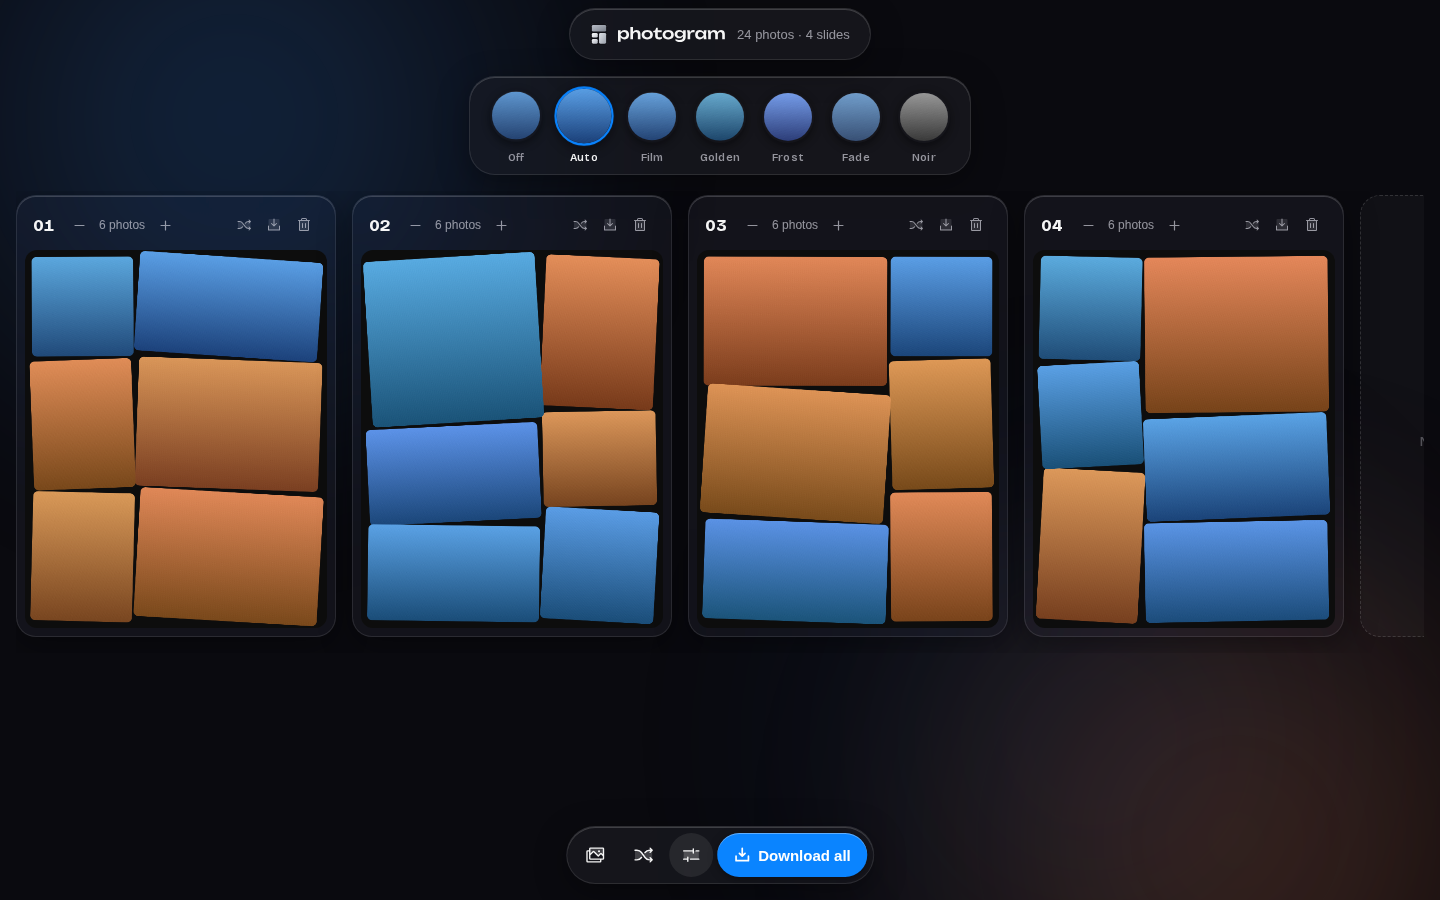
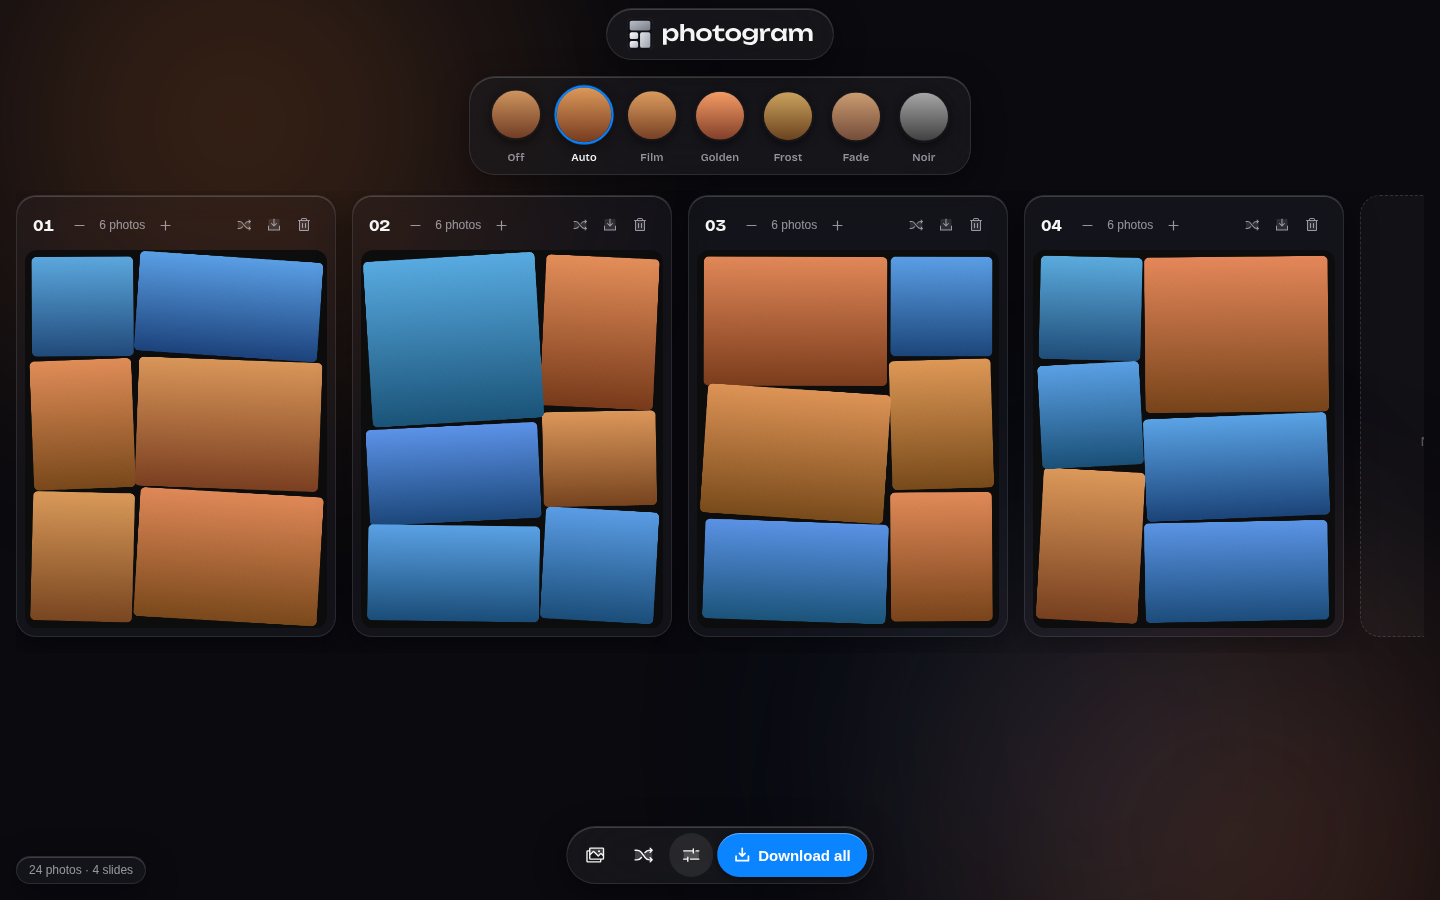
Bigger header brand; stats tally moves to a corner chip
The topbar is now just the enlarged logo mark and wordmark. The
photo/slide count lives in a small glass chip pinned to the bottom-left
corner, out of the way of the header and the dock. Screenshots
regenerated (also refreshing the one that still showed the coloured
logo).

Claude-Session: https://claude.ai/code/session_018Xpc9SxxA8oQpCyf6Z7jv9

diff --git a/src/App.jsx b/src/App.jsx
@@ -484,14 +484,9 @@ export default function App() {
       </div>
       <header className="topbar glass-thick">
         <div className="brand">
-          <Logo size={18} />
-          <Wordmark height={15} />
+          <Logo size={26} />
+          <Wordmark height={21} />
         </div>
-        {hasPhotos && (
-          <div className="counts" aria-live="polite">
-            {photos.size} photos · {slides.length} slides
-          </div>
-        )}
       </header>
 
       <input
@@ -784,6 +779,12 @@ export default function App() {
                 </button>
               </div>
             </div>
+        </div>
+      )}
+
+      {hasPhotos && (
+        <div className="counts stats-corner glass-thin" aria-live="polite">
+          {photos.size} photos · {slides.length} slides
         </div>
       )}
 

diff --git a/src/styles.css b/src/styles.css
@@ -248,10 +248,17 @@ body {
   background: linear-gradient(160deg, var(--system-teal), var(--system-blue) 60%, var(--system-indigo));
 }
 
-.counts {
+/* quiet corner chip for the photo/slide tally */
+.stats-corner {
+  position: fixed;
+  left: calc(var(--space-4) + env(safe-area-inset-left));
+  bottom: calc(var(--space-4) + env(safe-area-inset-bottom));
+  z-index: 40;
   color: var(--label-secondary);
-  font-size: var(--text-footnote);
+  font-size: var(--text-caption1);
   white-space: nowrap;
+  padding: 6px 12px;
+  border-radius: var(--radius-full);
 }
 
 /* ---------- bottom cluster: filter bubbles + action dock ---------- */
